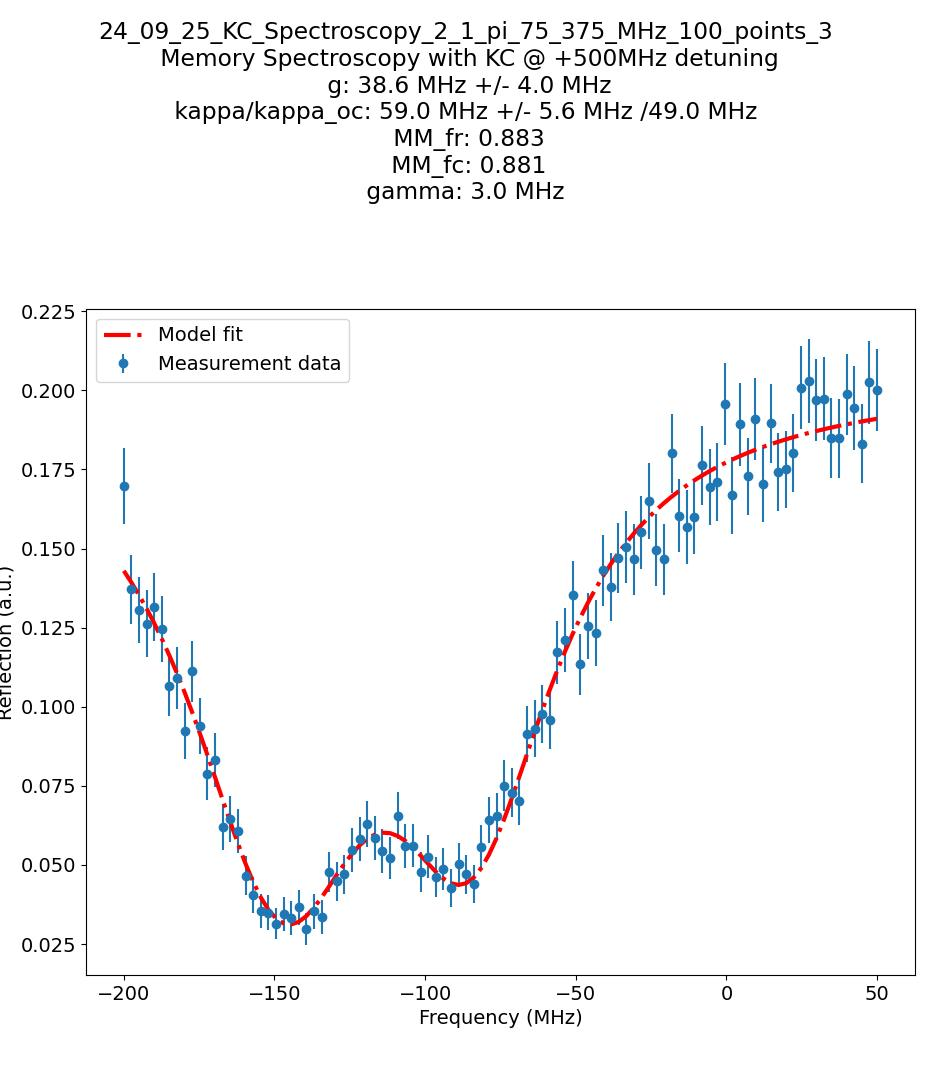
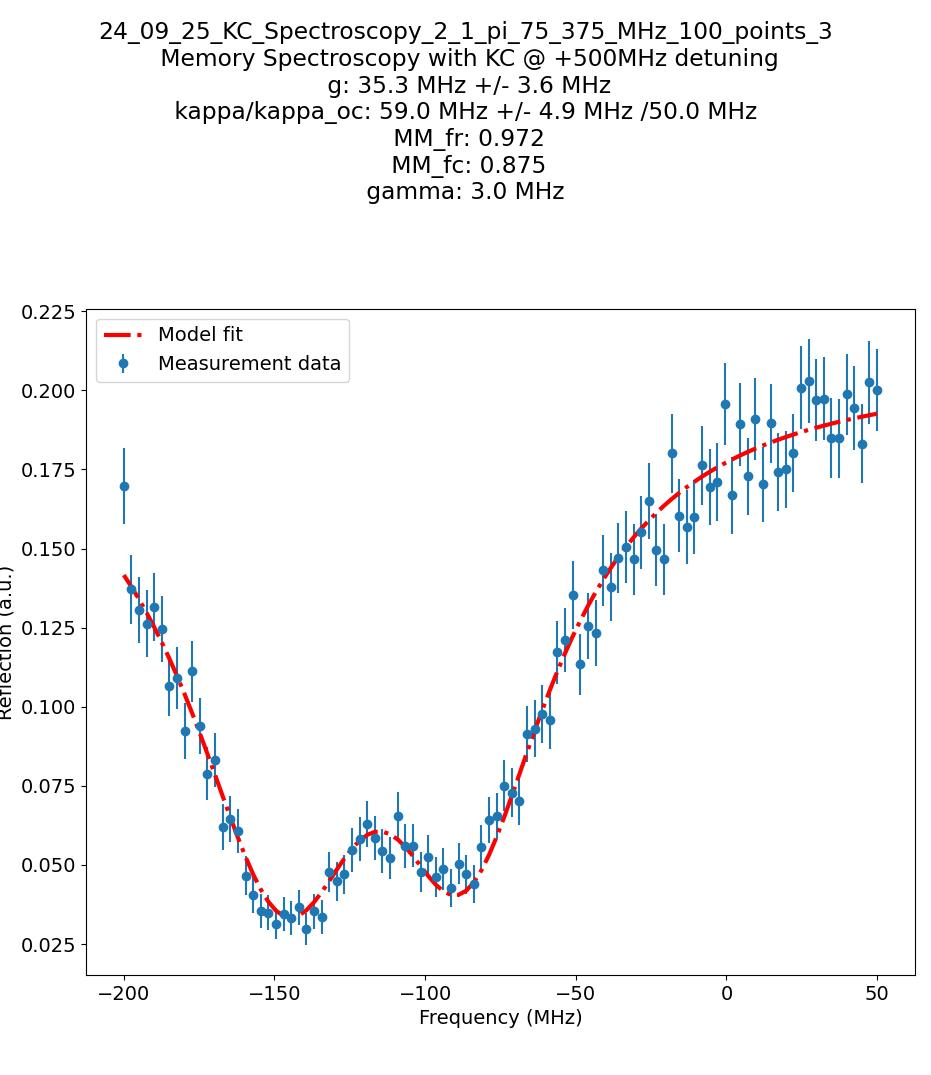
feat: extrapolate fit in 2-1' measurement

diff --git a/code/data/2025/09/24 - KC Normal Mode Spectroscopy 2-1/get_reflection.py b/code/data/2025/09/24 - KC Normal Mode Spectroscopy 2-1/get_reflection.py
@@ -2,6 +2,52 @@ import numpy as np
 import matplotlib.pyplot as plt
 import pandas as pd
 
+
+def R_coupled(detuning, f_res, A, g, kappa, kappa_oc, MM_rf, MM_fc, gamma, offset, a):
+    """Reflection model of coupled atom cavity system.
+
+    Parameters:
+    A     : Amplitude (normalization)
+    g    : atom-cavity coupling rate
+    kappa : cavity decay rate
+    kappa_oc : cavity outcoupling rate
+    MM_rf : reflection-fiber mode matching
+    MM_fc : fiber cavity mode matching
+    gamma : free space decay rate
+    """
+    Gamma = gamma + a * detuning
+    C_d = g**2 / (
+        2 * (Gamma + 1j * (detuning - f_res)) * (kappa + 1j * (detuning - f_res))
+    )
+    return (
+        A
+        * abs(
+            MM_rf
+            - (MM_fc * np.exp(1j * 0.0) ** 2)
+            * 2
+            * kappa_oc
+            / ((kappa + 1j * (detuning - f_res)) * (2 * C_d + 1))
+        )
+        ** 2
+        + offset
+    )
+
+
+popt = [
+    -1.17749212e02,
+    1.91049139e-01,
+    3.53184757e01,
+    5.90000000e01,
+    5.00000000e01,
+    9.72000000e-01,
+    8.75000000e-01,
+    3.03180000e00,
+    2.76624963e-02,
+    -8.30508505e-02,
+]
+
+x_function = np.linspace(-200, 1000, 1000)
+
 df = pd.read_csv("data_from_fit.csv")
 
 x = df["x"]
@@ -12,9 +58,12 @@ y_det_0 = y[34]
 
 y_max_det = max(y)
 
-print(f"Reflectivity at 0 detuning is {y_det_0 / y_max_det:.6f}")
-
+# print(f"Reflectivity at 0 detuning is {y_det_0 / y_max_det:.6f}")
+print(
+    f"Reflectivity at 0 detuning is {y_det_0 / max(R_coupled(x_function, *popt)):.6f}"
+)
 plt.scatter(x[34], y[34], c="r")
 plt.plot(x, y)
+plt.plot(x_function, R_coupled(x_function, *popt))
 plt.title("Splitting @ 2-1'")
 plt.show()

diff --git a/code/data/2025/09/24 - KC Normal Mode Spectroscopy 2-1/Normal_Mode_Spectroscopy_TF.py b/code/data/2025/09/24 - KC Normal Mode Spectroscopy 2-1/Normal_Mode_Spectroscopy_TF.py
@@ -899,8 +899,8 @@ class AtomAnalysis:
             30,  # g (coupling strength, MHz)
             58,  # kappa (total cavity decay rate, MHz)
             58 * 0.85,  # kappa_oc (outcoupling, ~85% of total kappa)
-            0.882,  # MM_rf (close to ideal)
-            0.882,  # MM_fc (80% coupling in)
+            0.978,  # MM_rf (close to ideal)
+            0.873,  # MM_fc (80% coupling in)
             3.0333,  # gamma (free space decay rate, MHz)
             0.01,  # offset (background level)
             0.0,  # a (slope term for detuning-dependent broadening)
@@ -913,8 +913,8 @@ class AtomAnalysis:
                 10,
                 58,
                 49,
-                0.881,
-                0.881,
+                0.972,
+                0.871,
                 3.0318,
                 -np.inf,
                 -np.inf,
@@ -925,8 +925,8 @@ class AtomAnalysis:
                 50,
                 59,
                 50,
-                0.883,
-                0.883,
+                0.984,
+                0.875,
                 3.0354,
                 np.inf,
                 np.inf,
